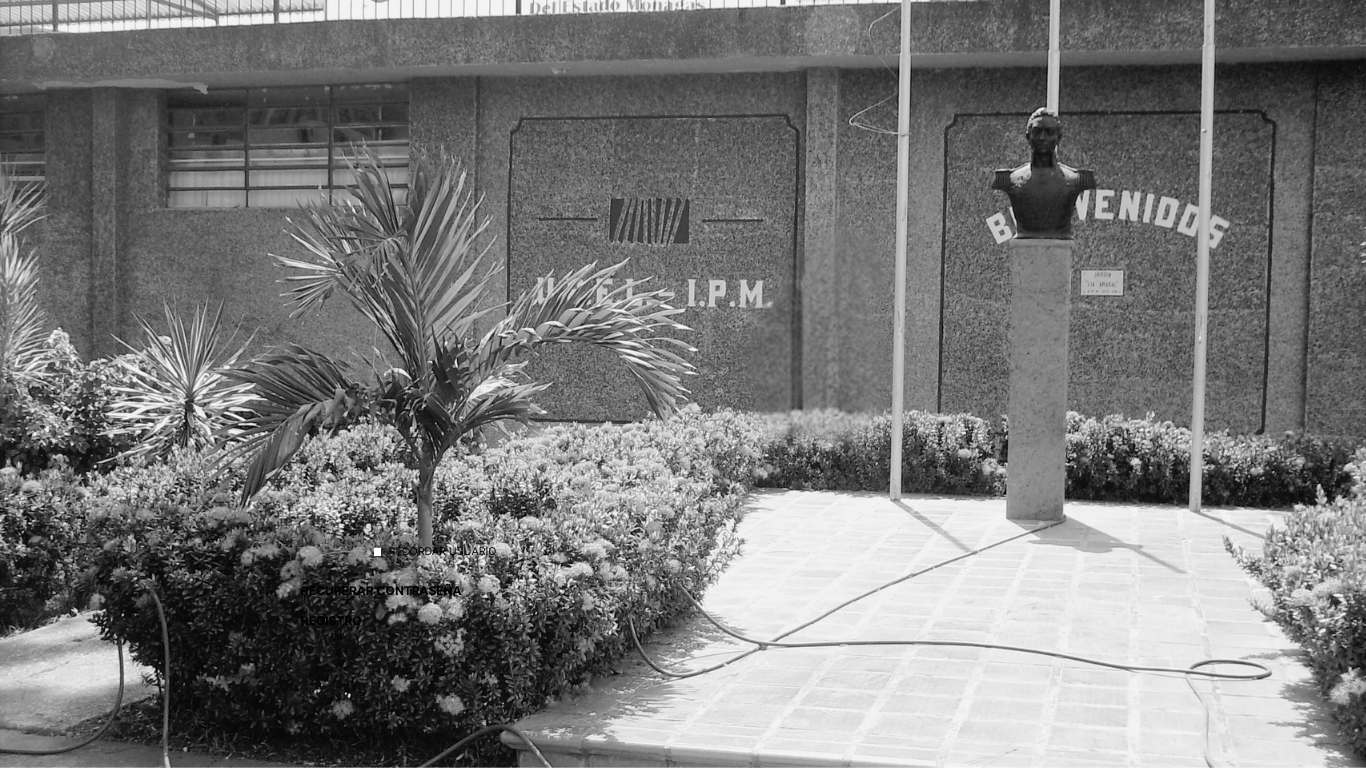
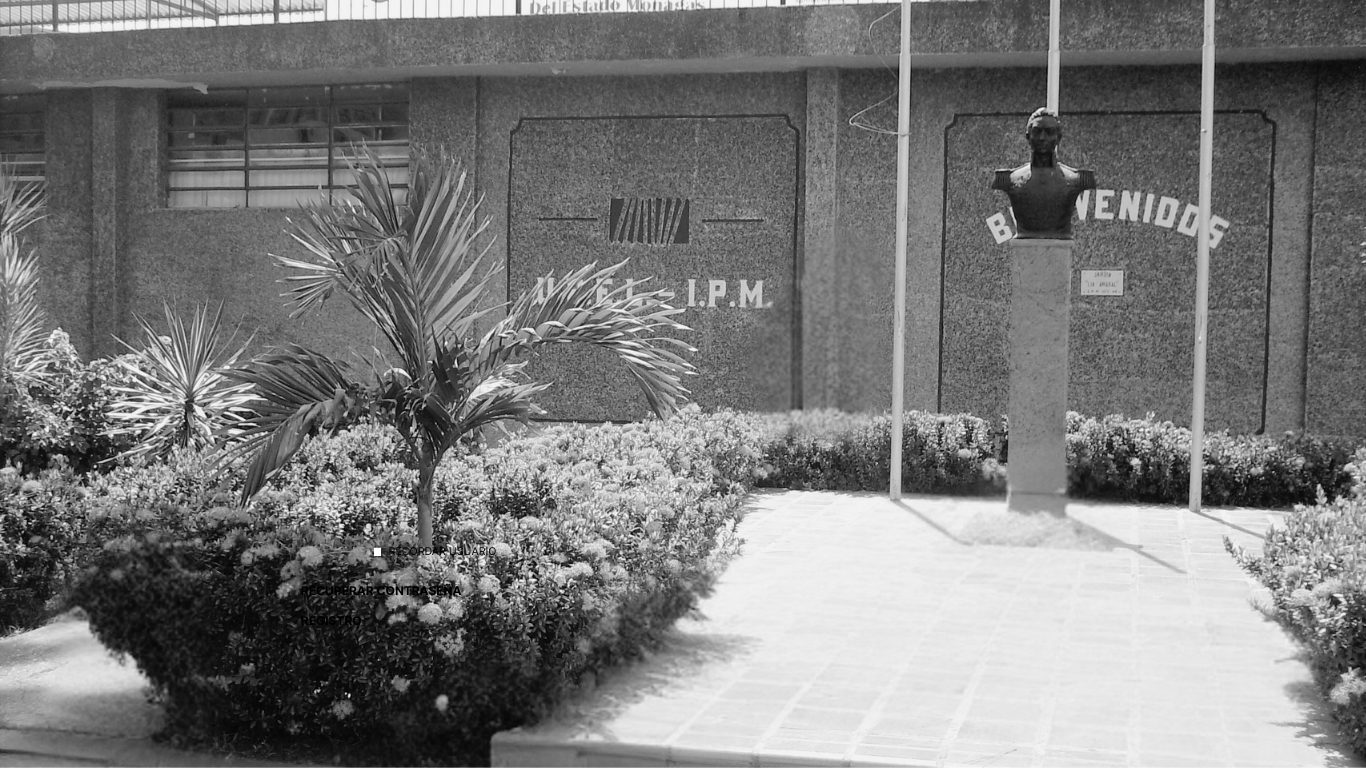
pruebas finales del 8-06-2026

diff --git a/app/Http/Controllers/ConstanciaController.php b/app/Http/Controllers/ConstanciaController.php
@@ -179,9 +179,8 @@ class ConstanciaController extends Controller
         }
         //SOBREVIVIENTE
         if ($tipoConst == 5) {
-            if($personal->fec_egre){
-                $beneficiarios = $personal->beneficiarios()->get();
-            }else{
+            $beneficiarios = $personal->beneficiarios()->get();
+            if(empty($beneficiarios)){
                 return Redirect::back()->with('error','Aun no posee afiliación con sobrevivientes, no puede solicitar este tipo de constancia. "consulte a la unidad" e ¡intente de nuevo!'); 
             }
                         

diff --git a/database/seeders/BeneficiarioSeeder.php b/database/seeders/BeneficiarioSeeder.php
@@ -18,11 +18,12 @@ class BeneficiarioSeeder extends Seeder
        // DB::statement('SET FOREIGN_KEY_CHECKS=1;');
        
         DB::table('beneficiarios')->insert([
-            'name' => 'Esther Victoria',
-            'last_name' => 'Gonzalez Palma',
+            'personal_id'=>1,
+            'cedula' =>2000,
+            'full_name' => 'Esther Victoria Gonzalez Palma',
             'fec_nac' => '2023-01-20',
             'sexo' => 'F',
-            'personal_id' => '1',
+            'porcentaje' => '1',
         ],);
         
     }

diff --git a/app/Models/Beneficiario.php b/app/Models/Beneficiario.php
@@ -8,7 +8,7 @@ use Illuminate\Database\Eloquent\Model;
 class Beneficiario extends Model
 {
     use HasFactory;
-    protected $fillable = ['personal_id', 'cedula','full_name', 'fec_nac','porcentaje'];
+    protected $fillable = ['personal_id', 'cedula','full_name', 'fec_nac','sexo','porcentaje'];
 
     public function empleados() 
     {
